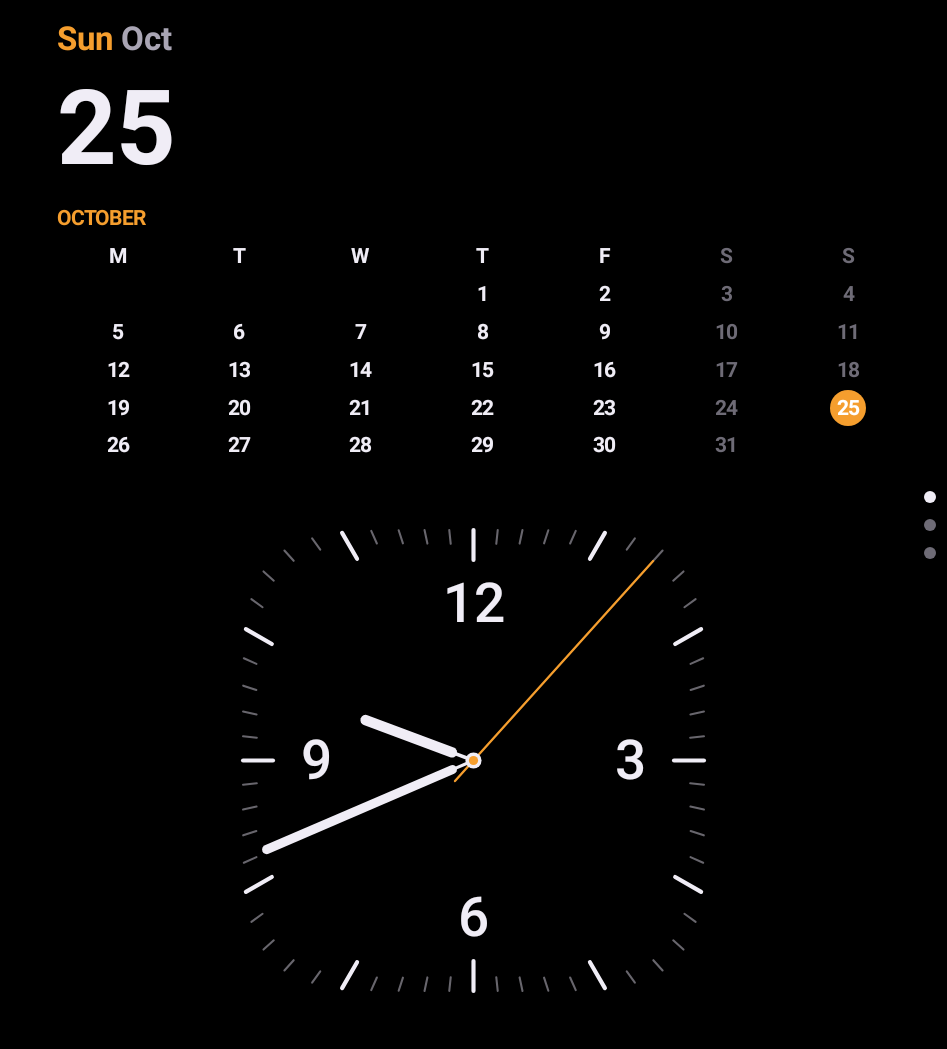
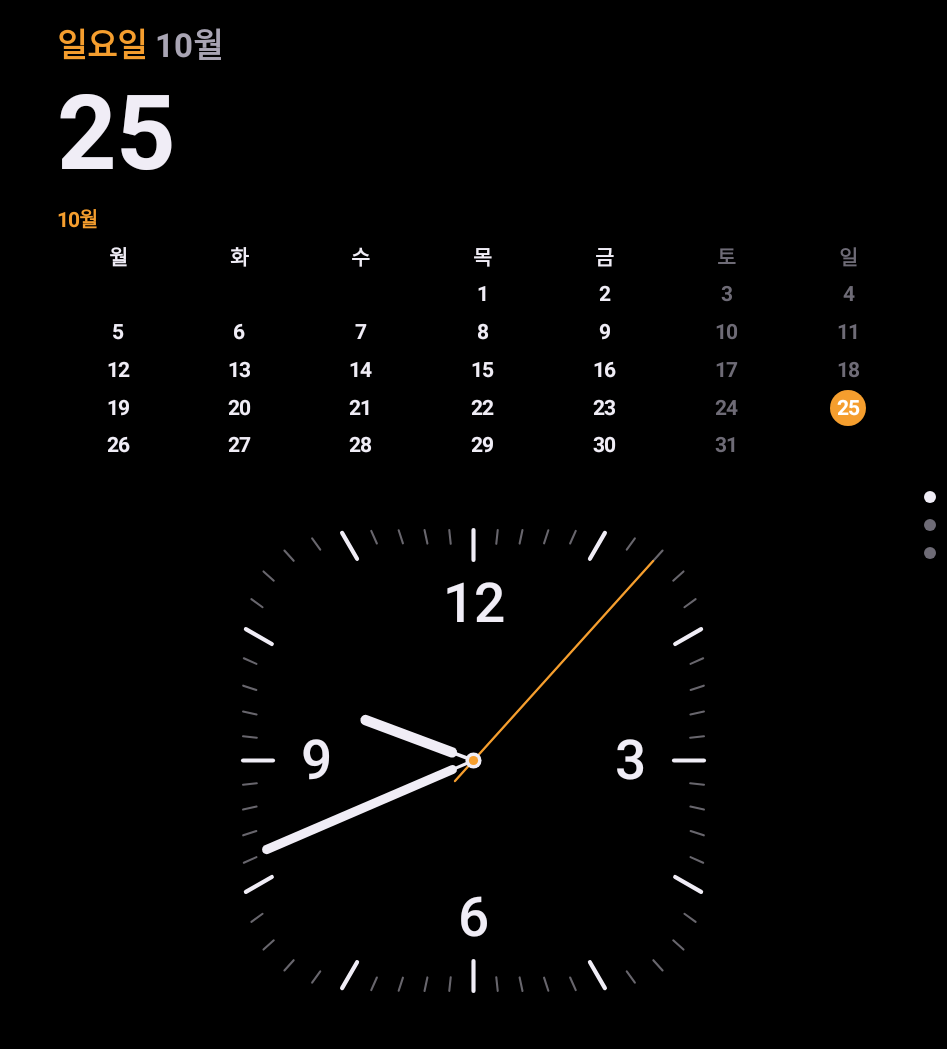
v1.1.0-beta.2: 앱 이름 Standface, 한국어 기본, 한국어 화면 잘림 수정
- 앱 이름·설정 화면 문구를 Standface로(앱 ID는 그대로)
- 처음 설치하면 한국어 표시(이미 고른 언어는 유지)
- 디지털 시계 오전/오후 잘림, 날씨 최고·최저 잘림, 한글 일정 줄 넘침 수정
- 일정 줄 높이를 기기에서 재어 셈(한글 1.51배, 영문 1.37배)
- 화면 스냅숏을 한국어 기준으로 갱신하고 영어 2장 추가(18장)

diff --git a/app/src/main/java/com/marksnd/foldstandby/ui/StyleFaces.kt b/app/src/main/java/com/marksnd/foldstandby/ui/StyleFaces.kt
@@ -18,6 +18,8 @@ import androidx.compose.foundation.layout.width
 import androidx.compose.foundation.shape.RoundedCornerShape
 import androidx.compose.material3.Text
 import androidx.compose.runtime.Composable
+import androidx.compose.ui.text.style.LineHeightStyle
+import androidx.compose.runtime.remember
 import androidx.compose.ui.Alignment
 import androidx.compose.ui.Modifier
 import androidx.compose.ui.graphics.Brush
@@ -29,6 +31,7 @@ import androidx.compose.ui.text.TextStyle
 import androidx.compose.ui.text.font.FontWeight
 import androidx.compose.ui.text.rememberTextMeasurer
 import androidx.compose.ui.unit.Dp
+import androidx.compose.ui.unit.TextUnit
 import androidx.compose.ui.unit.dp
 import androidx.compose.ui.unit.em
 import com.marksnd.foldstandby.data.AgendaEvent
@@ -128,10 +131,12 @@ private fun BigTime(hm: String, ap: String, digitSize: Dp, available: Dp) {
     // 기준 크기에서 숫자·간격·오전/오후 너비를 재고, 넘치면 같은 비율로 줄인다.
     val scale = with(density) {
         val digitsW = measurer.measure(hm, base.copy(fontSize = digitSize.toSp())).size.width
-        val apW = measurer.measure(ap, base.copy(fontSize = (digitSize * 0.18f).toSp())).size.width
+        // 오전/오후는 Label로 그리므로 자간 없이 잰다(한글 "오전"은 "AM"보다 넓다).
+        val apW = measurer.measure(ap, base.copy(fontSize = (digitSize * 0.18f).toSp(), letterSpacing = TextUnit.Unspecified)).size.width
         val total = digitsW + apW + (digitSize * 0.06f).toPx()
         // 화면이 막 뜰 때 칸 크기가 잠깐 0이면 0/0이 되어 멈춘다. 그때는 줄이지 않는다.
-        val ratio = available.toPx() / total
+        // 줄일 때는 반올림으로 1px 넘쳐 "…"이 붙지 않도록 3% 여유를 둔다.
+        val ratio = available.toPx() * 0.97f / total
         if (total > 0f && ratio.isFinite()) minOf(1f, ratio) else 1f
     }
     if (digitSize <= 0.dp || !digitSize.value.isFinite()) return
@@ -245,6 +250,7 @@ private fun ColumnScope.AgendaColumn(today: LocalDate, agenda: AgendaState, s: A
     }
     // 남은 높이 안에 들어가게 센다. 내일은 제목과 한 줄을 늘 잡아 두고, 남는 높이는 오늘 일정에 먼저 준다.
     // 못 보여준 일정은 숨기지 않고 +N으로 알린다.
+    val line = rememberRoundedLineRatio()
     BoxWithConstraints(Modifier.fillMaxWidth().weight(1f)) {
         val today = timedFirst(agenda.events)
         val tomorrow = timedFirst(agenda.tomorrow)
@@ -254,13 +260,13 @@ private fun ColumnScope.AgendaColumn(today: LocalDate, agenda: AgendaState, s: A
             tomorrowCount = tomorrow.size,
             todayMax = todayMax,
             h = AgendaHeights(
-                todayHead = (s.label * ROUNDED_LINE + s.label * 0.4f).value,
-                empty = (s.title * 0.9f * ROUNDED_LINE).value,
-                event = (s.title * ROUNDED_LINE + s.sub * ROUNDED_LINE).value,
+                todayHead = (s.label * line + s.label * 0.4f).value,
+                empty = (s.title * 0.9f * line).value,
+                event = (s.title * line + s.sub * line).value,
                 eventGap = (s.sub * 0.6f).value,
-                more = (s.sub * ROUNDED_LINE + s.sub * 0.25f).value,
-                tomorrowHead = (s.label * 0.6f + s.label * ROUNDED_LINE).value,
-                line = (s.sub * 1.1f * ROUNDED_LINE + s.sub * 0.25f).value,
+                more = (s.sub * line + s.sub * 0.25f).value,
+                tomorrowHead = (s.label * 0.6f + s.label * line).value,
+                line = (s.sub * 1.1f * line + s.sub * 0.25f).value,
             ),
         )
         Column {
@@ -338,10 +344,28 @@ internal fun fitAgenda(room: Float, todayCount: Int, tomorrowCount: Int, todayMa
 private const val TOMORROW_MAX = 2
 
 /**
- * 둥근 글꼴(Nunito) 한 줄이 실제로 차지하는 높이 ÷ 글자 크기. Label의 줄 높이(1.12)보다 글꼴 자체 높이
- * (ascent 1.011 + descent 0.353)가 커서 글꼴 높이를 따른다. 화면 스냅숏에서 잰 값 1.36에 여유를 조금 둔다.
+ * 둥근 글꼴 Label 한 줄이 실제로 차지하는 높이 ÷ 글자 크기를 이 기기에서 잰다.
+ * Label의 줄 높이(1.12)보다 글꼴 자체 높이가 커서 글꼴 높이를 따른다. 영문(Nunito)은 약 1.37,
+ * 한글은 시스템 대체 글꼴이라 약 1.51이고 기기 글꼴에 따라 다르므로, 한글과 영문을 함께 재어 큰 쪽을 쓴다.
  */
-private const val ROUNDED_LINE = 1.37f
+@Composable
+private fun rememberRoundedLineRatio(): Float {
+    val measurer = rememberTextMeasurer()
+    val density = LocalDensity.current
+    return remember(measurer, density) {
+        val size = 100.dp
+        val sp = with(density) { size.toSp() }
+        val style = TextStyle(
+            fontFamily = Rounded,
+            fontWeight = FontWeight.Black,
+            fontSize = sp,
+            lineHeight = sp * 1.12f,
+            platformStyle = PlatformTextStyle(includeFontPadding = false),
+            lineHeightStyle = LineHeightStyle(LineHeightStyle.Alignment.Center, LineHeightStyle.Trim.Both),
+        )
+        with(density) { measurer.measure("오늘 Ag", style).size.height.toDp() } / size
+    }
+}
 
 /** 시간이 있는 일정을 시작 순으로 먼저, 종일 일정은 뒤로. 종일 일정이 많아도 약속이 밀려나지 않게. */
 private fun timedFirst(events: List<AgendaEvent>) = events.sortedWith(compareBy({ it.allDay }, { it.begin }))

diff --git a/app/src/main/java/com/marksnd/foldstandby/MainActivity.kt b/app/src/main/java/com/marksnd/foldstandby/MainActivity.kt
@@ -117,9 +117,9 @@ private fun SetupScreen() {
             verticalArrangement = Arrangement.spacedBy(12.dp),
         ) {
             Column(Modifier.widthIn(max = 640.dp), verticalArrangement = Arrangement.spacedBy(12.dp)) {
-                Text("Fold StandBy", style = MaterialTheme.typography.headlineMedium)
+                Text("Standface", style = MaterialTheme.typography.headlineMedium)
                 Text(
-                    "폴드8을 가로로 세워 충전하면 시계·달력·위젯·음악을 크게 보여줘요. " +
+                    "폰을 세워 두고 충전하면 시계·달력·위젯·음악을 크게 보여줘요. " +
                         "좌우로 밀면 보기가, 시계에서 위아래로 밀면 스타일이 바뀌어요. 이 설정 화면은 스탠바이 화면을 길게 누르면 다시 열 수 있어요. 폰의 화면 회전 잠금과 상관없이 폰 방향대로 돌아가요.",
                     style = MaterialTheme.typography.bodyMedium,
                 )
@@ -134,7 +134,7 @@ private fun SetupScreen() {
                 SectionTitle("충전할 때 자동으로 켜기")
                 StepCard(
                     title = "화면 보호기로 지정",
-                    body = "설정 › 디스플레이 › 화면 보호기에서 Fold StandBy를 고르고, 시작 조건을 '충전 중'으로 바꿔 주세요. " +
+                    body = "설정 › 디스플레이 › 화면 보호기에서 Standface를 고르고, 시작 조건을 '충전 중'으로 바꿔 주세요. " +
                         "메뉴가 안 보이면 설정 검색창에서 '화면 보호기'를 찾으세요.",
                     action = "화면 보호기 설정 열기",
                 ) { openDreamSettings(context) }
@@ -149,7 +149,7 @@ private fun SetupScreen() {
                 PermissionCard("알림 접근", "재생 중 음악과 새 알림 표시", notifOk) { openNotificationAccess(context) }
                 if (!notifOk) {
                     Text(
-                        "목록에서 켜지지 않으면 설정 › 애플리케이션 › Fold StandBy › 오른쪽 위 ⋮ › '제한된 설정 허용'을 먼저 누르세요.",
+                        "목록에서 켜지지 않으면 설정 › 애플리케이션 › Standface › 오른쪽 위 ⋮ › '제한된 설정 허용'을 먼저 누르세요.",
                         style = MaterialTheme.typography.bodySmall,
                         color = MaterialTheme.colorScheme.onSurfaceVariant,
                     )

diff --git a/app/src/test/java/com/marksnd/foldstandby/ui/StandbyScreenshotTest.kt b/app/src/test/java/com/marksnd/foldstandby/ui/StandbyScreenshotTest.kt
@@ -22,7 +22,7 @@ import java.util.Locale
 import java.util.TimeZone
 
 /*
- * 기기 크기·자세별 스탠바이 화면 스냅숏. 값은 FixedSources로 고정한다.
+ * 기기 크기·자세별 스탠바이 화면 스냅숏. 값은 FixedSources로 고정한다. 표시 언어는 기본값(한국어), 이름이 _en인 것만 영어.
  *   기준 이미지 만들기:  ./gradlew recordRoborazziDebug
  *   기준과 비교:         ./gradlew verifyRoborazziDebug
  * 이미지는 app/screenshots/에 있다. 화면을 일부러 바꿨으면 기준을 다시 만들고 바뀐 그림을 눈으로 확인한 뒤 커밋한다.
@@ -61,8 +61,11 @@ class StandbyScreenshotTest {
         name: String,
         posture: Posture = Posture.Flat,
         sources: FixedSources = FixedSources(),
+        english: Boolean = false,
         gesture: (() -> Unit)? = null,
     ) {
+        // 기본은 한국어. 영어 화면도 몇 장 함께 지킨다.
+        if (english) SettingsStore(ApplicationProvider.getApplicationContext()).update { putBoolean(SettingsStore.KOREAN, false) }
         composeRule.setContent {
             CompositionLocalProvider(LocalStandbySources provides sources) {
                 StandbyScreen(posture = posture, onOpenSettings = {}, onBrightness = {})
@@ -104,4 +107,8 @@ class StandbyScreenshotTest {
     // 좁은 세로 화면: 달력 스타일의 큰 날짜와 시각이 한 줄에 들어가야 한다.
     @Config(qualifiers = FLIP8_PORT) @Test fun narrow21x9Calendar() = shoot("narrow_21x9_port_calendar") { nextStyle(); composeRule.waitForIdle(); nextStyle() }
     @Config(qualifiers = GALAXY_S_PORT) @Test fun galaxySPortraitCalendar() = shoot("galaxy_s_port_calendar") { nextStyle(); composeRule.waitForIdle(); nextStyle() }
+
+    // 영어 표시
+    @Config(qualifiers = FOLD8_COVER_LAND) @Test fun fold8CoverCalendarEnglish() = shoot("fold8_cover_land_calendar_en", english = true) { nextStyle(); composeRule.waitForIdle(); nextStyle() }
+    @Config(qualifiers = FOLD8_COVER_LAND) @Test fun fold8CoverDigitalEnglish() = shoot("fold8_cover_land_digital_en", english = true) { nextStyle() }
 }

diff --git a/app/src/main/java/com/marksnd/foldstandby/ui/Widgets.kt b/app/src/main/java/com/marksnd/foldstandby/ui/Widgets.kt
@@ -71,10 +71,13 @@ fun WeatherPage(state: WeatherState) {
                         Spacer(Modifier.width(u * 0.05f))
                         Column(Modifier.weight(1f), horizontalAlignment = Alignment.End) {
                             Label(skyLabel(sky, korean), u * 0.075f, p.primary, weight = FontWeight.SemiBold, align = TextAlign.End, maxLines = 2)
-                            Label(
-                                if (korean) "최고 ${w.high}° · 최저 ${w.low}°" else "H ${w.high}° · L ${w.low}°",
-                                u * 0.06f, p.secondary, weight = FontWeight.Medium,
-                            )
+                            // 한국어는 "최고 · 최저"가 길어 한 줄에 들어가지 않으므로 두 줄로 나눈다.
+                            if (korean) {
+                                Label("최고 ${w.high}°", u * 0.06f, p.secondary, weight = FontWeight.Medium)
+                                Label("최저 ${w.low}°", u * 0.06f, p.secondary, weight = FontWeight.Medium)
+                            } else {
+                                Label("H ${w.high}° · L ${w.low}°", u * 0.06f, p.secondary, weight = FontWeight.Medium)
+                            }
                             Spacer(Modifier.height(u * 0.03f))
                             Label(if (korean) "체감 ${w.feelsLike}°" else "Feels ${w.feelsLike}°", u * 0.05f, p.dim, weight = FontWeight.Medium)
                             Label(if (korean) "습도 ${w.humidity}%" else "Humidity ${w.humidity}%", u * 0.05f, p.dim, weight = FontWeight.Medium)

diff --git a/app/src/main/java/com/marksnd/foldstandby/data/Settings.kt b/app/src/main/java/com/marksnd/foldstandby/data/Settings.kt
@@ -15,7 +15,8 @@ enum class NightMode { Auto, On, Off }
 
 data class Settings(
     val accent: Int = 0,
-    val korean: Boolean = false,
+    /** 한국어 사용자를 위한 앱이라 기본은 한국어. 설정에서 English를 고를 수 있다. */
+    val korean: Boolean = true,
     val nightMode: NightMode = NightMode.Auto,
     val mondayFirst: Boolean = true,
     val alarmGlow: Boolean = true,
@@ -34,7 +35,7 @@ class SettingsStore(context: Context) {
 
     fun read() = Settings(
         accent = prefs.getInt(ACCENT, 0),
-        korean = prefs.getBoolean(KOREAN, false),
+        korean = prefs.getBoolean(KOREAN, true),
         nightMode = NightMode.entries.getOrElse(prefs.getInt(NIGHT, 0)) { NightMode.Auto },
         mondayFirst = prefs.getBoolean(MONDAY_FIRST, true),
         alarmGlow = prefs.getBoolean(ALARM_GLOW, true),

diff --git a/app/src/main/java/com/marksnd/foldstandby/ui/NowPlayingPage.kt b/app/src/main/java/com/marksnd/foldstandby/ui/NowPlayingPage.kt
@@ -49,7 +49,7 @@ fun NowPlayingPage(state: MediaState, tick: State<Long>) {
         when (state) {
             MediaState.NoAccess -> Message(
                 if (korean) "음악 정보를 보려면 알림 접근을 허용하세요" else "Allow notification access to show music",
-                if (korean) "StandBy 설정 앱에서 켤 수 있어요" else "Turn it on in StandBy settings",
+                if (korean) "Standface 설정에서 켤 수 있어요" else "Turn it on in Standface settings",
                 u,
             )
             MediaState.Idle -> Message(

diff --git a/CHANGELOG.md b/CHANGELOG.md
@@ -2,6 +2,15 @@
 
 버전 번호와 릴리스 순서는 [RELEASING.md](RELEASING.md)를 봐요.
 
+## 1.1.0-beta.2 · 2026-10-25 (테스트판)
+
+- 앱 이름을 **Standface**로 바꿨어요. 폴드뿐 아니라 여러 갤럭시 폰에서 쓰는 앱이라 이름을 넓혔어요. 지우지 않고 덮어 설치하면 설정은 그대로예요.
+- 처음 설치하면 화면이 한국어로 나와요. 설정에서 언어를 직접 고른 적이 있다면 그 선택을 따라요.
+- 한국어 화면에서 잘리던 곳을 고쳤어요.
+  - 디지털 시계의 "오전/오후"가 "오…"로 잘리던 문제
+  - 날씨의 "최고 · 최저"가 잘리던 문제(두 줄로 나눔)
+  - 달력 스타일에서 한글 일정 줄이 아래로 넘치던 문제(기기에서 글자 높이를 재어 셈)
+
 ## 1.1.0-beta.1 · 2026-10-25 (테스트판)
 
 폴드8 와이드가 아닌 갤럭시 폰에서 화면이 어떻게 보이는지 확인하려고 낸 테스트판이에요.
